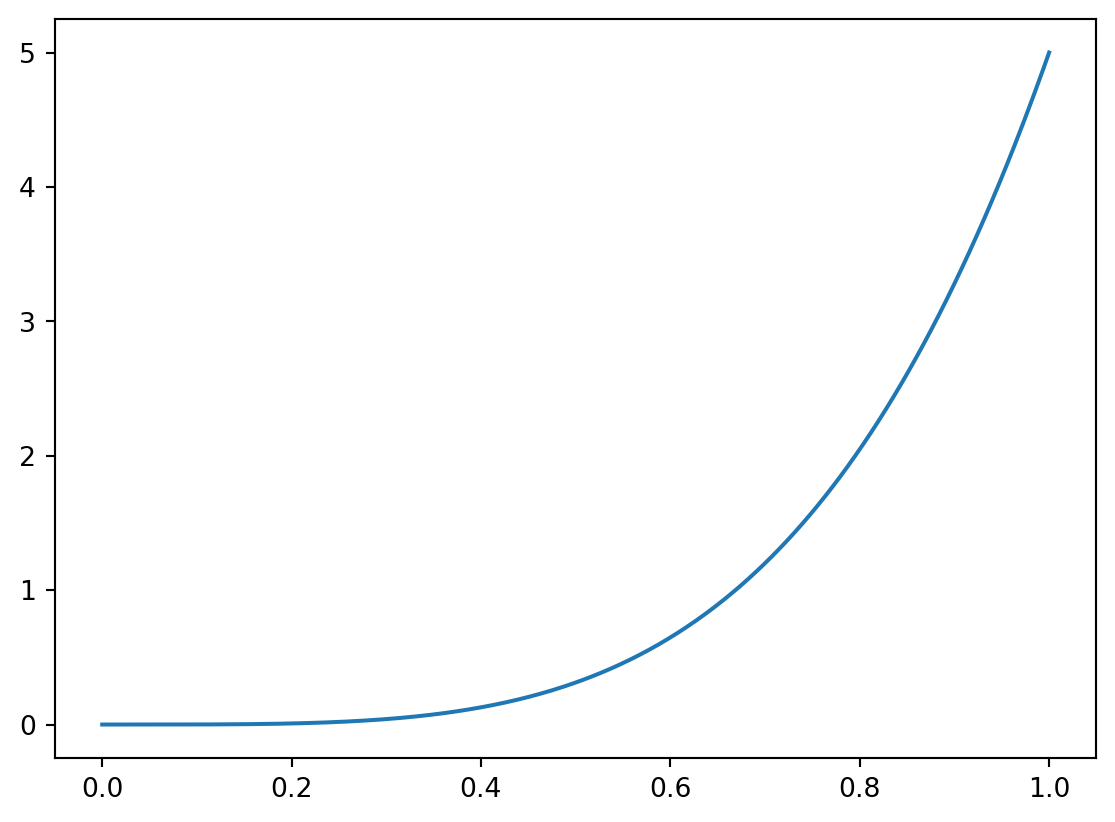
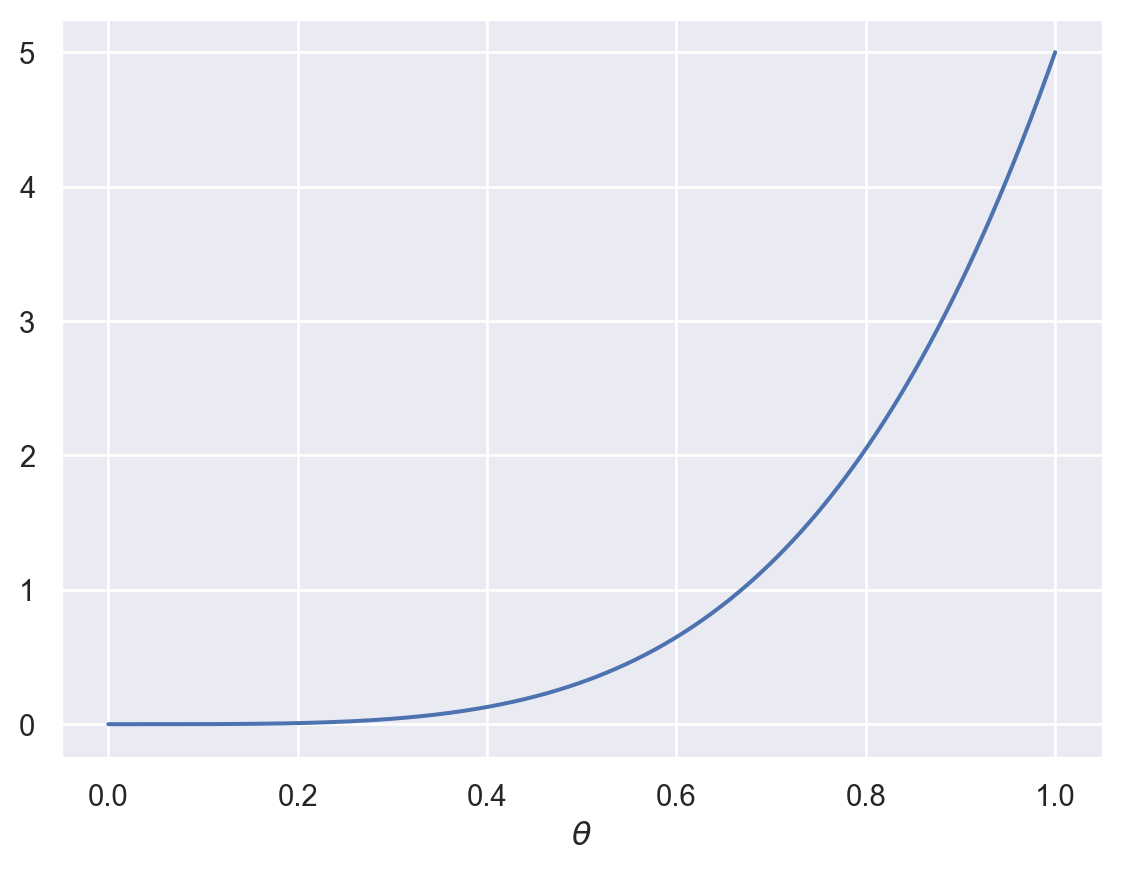
Revisions to Chapter 5

diff --git a/docs/05-hierarchical-bayes.html b/docs/05-hierarchical-bayes.html
@@ -2,7 +2,7 @@
 <html xmlns="http://www.w3.org/1999/xhtml" lang="en" xml:lang="en"><head>
 
 <meta charset="utf-8">
-<meta name="generator" content="quarto-1.3.433">
+<meta name="generator" content="quarto-1.3.450">
 
 <meta name="viewport" content="width=device-width, initial-scale=1.0, user-scalable=yes">
 
@@ -263,7 +263,7 @@ gtag('config', 'G-HG2MG0W08W', { 'anonymize_ip': true});
 
 </header>
 
-<p>In <a href="#bayes">previous examples</a>, there were always a finite number of hypotheses that we were making inferences about (number of black balls, fair or trick coin, yellow or green taxi). Sometimes, we want to consider an infinite set of hypotheses. For example, after flipping a coin, what is the probability of that coin coming up heads? The answer to this question could be any number in the interval [0,1].</p>
+<p>In <a href="./02-bayes.html#bayes">previous examples</a>, there was always a finite number of hypotheses that we were making inferences about (number of black balls, fair or trick coin, yellow or green taxi). Sometimes, we want to consider an infinite set of hypotheses. For example, after flipping a coin, what is the probability of that coin coming up heads? The answer to this question could be any number in the interval [0,1].</p>
 <section id="beta-binomial" class="level2" data-number="5.1">
 <h2 data-number="5.1" class="anchored" data-anchor-id="beta-binomial"><span class="header-section-number">5.1</span> The Beta-Binomial model 🪙</h2>
 <div class="quarto-figure quarto-figure-center">
@@ -295,42 +295,47 @@ P(\theta) = \text{Beta}(\theta;\alpha,\beta)
 <div class="sourceCode cell-code" id="cb1"><pre class="sourceCode python code-with-copy"><code class="sourceCode python"><span id="cb1-1"><a href="#cb1-1" aria-hidden="true" tabindex="-1"></a><span class="im">from</span> scipy <span class="im">import</span> stats</span>
 <span id="cb1-2"><a href="#cb1-2" aria-hidden="true" tabindex="-1"></a><span class="im">import</span> numpy <span class="im">as</span> np</span>
 <span id="cb1-3"><a href="#cb1-3" aria-hidden="true" tabindex="-1"></a><span class="im">import</span> matplotlib.pyplot <span class="im">as</span> plt</span>
-<span id="cb1-4"><a href="#cb1-4" aria-hidden="true" tabindex="-1"></a></span>
-<span id="cb1-5"><a href="#cb1-5" aria-hidden="true" tabindex="-1"></a><span class="kw">def</span> plot_beta(a, b):</span>
-<span id="cb1-6"><a href="#cb1-6" aria-hidden="true" tabindex="-1"></a>  x <span class="op">=</span> np.linspace(<span class="dv">0</span>,<span class="dv">1</span>,num<span class="op">=</span><span class="dv">500</span>)</span>
-<span id="cb1-7"><a href="#cb1-7" aria-hidden="true" tabindex="-1"></a>  px <span class="op">=</span> stats.beta.pdf(x, a, b)</span>
-<span id="cb1-8"><a href="#cb1-8" aria-hidden="true" tabindex="-1"></a>  </span>
-<span id="cb1-9"><a href="#cb1-9" aria-hidden="true" tabindex="-1"></a>  fig, ax <span class="op">=</span> plt.subplots()</span>
-<span id="cb1-10"><a href="#cb1-10" aria-hidden="true" tabindex="-1"></a>  ax.plot(x, px)</span>
-<span id="cb1-11"><a href="#cb1-11" aria-hidden="true" tabindex="-1"></a>  plt.show()</span></code><button title="Copy to Clipboard" class="code-copy-button"><i class="bi"></i></button></pre></div>
+<span id="cb1-4"><a href="#cb1-4" aria-hidden="true" tabindex="-1"></a><span class="im">import</span> seaborn <span class="im">as</span> sns</span>
+<span id="cb1-5"><a href="#cb1-5" aria-hidden="true" tabindex="-1"></a></span>
+<span id="cb1-6"><a href="#cb1-6" aria-hidden="true" tabindex="-1"></a>sns.set_theme()</span>
+<span id="cb1-7"><a href="#cb1-7" aria-hidden="true" tabindex="-1"></a></span>
+<span id="cb1-8"><a href="#cb1-8" aria-hidden="true" tabindex="-1"></a><span class="kw">def</span> plot_beta(a, b):</span>
+<span id="cb1-9"><a href="#cb1-9" aria-hidden="true" tabindex="-1"></a>  x <span class="op">=</span> np.linspace(<span class="dv">0</span>,<span class="dv">1</span>,num<span class="op">=</span><span class="dv">500</span>)</span>
+<span id="cb1-10"><a href="#cb1-10" aria-hidden="true" tabindex="-1"></a>  px <span class="op">=</span> stats.beta.pdf(x, a, b)</span>
+<span id="cb1-11"><a href="#cb1-11" aria-hidden="true" tabindex="-1"></a>  </span>
+<span id="cb1-12"><a href="#cb1-12" aria-hidden="true" tabindex="-1"></a>  fig, ax <span class="op">=</span> plt.subplots()</span>
+<span id="cb1-13"><a href="#cb1-13" aria-hidden="true" tabindex="-1"></a>  <span class="co">#ax.plot(x, px)</span></span>
+<span id="cb1-14"><a href="#cb1-14" aria-hidden="true" tabindex="-1"></a>  sns.lineplot(x <span class="op">=</span> x, y <span class="op">=</span> px)</span>
+<span id="cb1-15"><a href="#cb1-15" aria-hidden="true" tabindex="-1"></a>  ax.set_xlabel(<span class="vs">r'$\theta$'</span>)</span>
+<span id="cb1-16"><a href="#cb1-16" aria-hidden="true" tabindex="-1"></a>  plt.show()</span></code><button title="Copy to Clipboard" class="code-copy-button"><i class="bi"></i></button></pre></div>
 </div>
 <p><code>plot_beta</code> takes two arguments: <code>a</code> (<span class="math inline">\(\alpha\)</span>), and <code>b</code>(<span class="math inline">\(\beta\)</span>) and plots a Beta distribution with those parameter values.</p>
 <p>Let’s see what it looks like with a few different values.</p>
 <div class="cell" data-execution_count="2">
 <div class="sourceCode cell-code" id="cb2"><pre class="sourceCode python code-with-copy"><code class="sourceCode python"><span id="cb2-1"><a href="#cb2-1" aria-hidden="true" tabindex="-1"></a>plot_beta(<span class="dv">1</span>,<span class="dv">1</span>)</span></code><button title="Copy to Clipboard" class="code-copy-button"><i class="bi"></i></button></pre></div>
 <div class="cell-output cell-output-display">
-<p><img src="05-hierarchical-bayes_files/figure-html/cell-3-output-1.png" width="590" height="425"></p>
+<p><img src="05-hierarchical-bayes_files/figure-html/cell-3-output-1.png" width="590" height="450"></p>
 </div>
 </div>
 <p>When <span class="math inline">\(\alpha = \beta = 1\)</span>, the Beta distribution is identical to a Uniform(<span class="math inline">\([0,1]\)</span>) distribution.</p>
 <div class="cell" data-execution_count="3">
 <div class="sourceCode cell-code" id="cb3"><pre class="sourceCode python code-with-copy"><code class="sourceCode python"><span id="cb3-1"><a href="#cb3-1" aria-hidden="true" tabindex="-1"></a>plot_beta(<span class="dv">3</span>,<span class="dv">3</span>)</span></code><button title="Copy to Clipboard" class="code-copy-button"><i class="bi"></i></button></pre></div>
 <div class="cell-output cell-output-display">
-<p><img src="05-hierarchical-bayes_files/figure-html/cell-4-output-1.png" width="579" height="411"></p>
+<p><img src="05-hierarchical-bayes_files/figure-html/cell-4-output-1.png" width="581" height="435"></p>
 </div>
 </div>
 <p>When <span class="math inline">\(\alpha\)</span> and <span class="math inline">\(\beta\)</span> are greater than 1 and equal, we get a distribution with a peak around 0.5. If we had strong prior expectations that the coin was unbiased, we could increase the parameters even more:</p>
 <div class="cell" data-execution_count="4">
 <div class="sourceCode cell-code" id="cb4"><pre class="sourceCode python code-with-copy"><code class="sourceCode python"><span id="cb4-1"><a href="#cb4-1" aria-hidden="true" tabindex="-1"></a>plot_beta(<span class="dv">50</span>,<span class="dv">50</span>)</span></code><button title="Copy to Clipboard" class="code-copy-button"><i class="bi"></i></button></pre></div>
 <div class="cell-output cell-output-display">
-<p><img src="05-hierarchical-bayes_files/figure-html/cell-5-output-1.png" width="558" height="411"></p>
+<p><img src="05-hierarchical-bayes_files/figure-html/cell-5-output-1.png" width="561" height="435"></p>
 </div>
 </div>
 <p>What about when <span class="math inline">\(\alpha\)</span> and <span class="math inline">\(\beta\)</span> are not equal?</p>
 <div class="cell" data-execution_count="5">
 <div class="sourceCode cell-code" id="cb5"><pre class="sourceCode python code-with-copy"><code class="sourceCode python"><span id="cb5-1"><a href="#cb5-1" aria-hidden="true" tabindex="-1"></a>plot_beta(<span class="dv">4</span>,<span class="dv">2</span>)</span></code><button title="Copy to Clipboard" class="code-copy-button"><i class="bi"></i></button></pre></div>
 <div class="cell-output cell-output-display">
-<p><img src="05-hierarchical-bayes_files/figure-html/cell-6-output-1.png" width="571" height="411"></p>
+<p><img src="05-hierarchical-bayes_files/figure-html/cell-6-output-1.png" width="573" height="435"></p>
 </div>
 </div>
 <p>This allows us to capture skewed priors, perhaps capturing a belief that the coin has a specific bias.</p>
@@ -338,7 +343,7 @@ P(\theta) = \text{Beta}(\theta;\alpha,\beta)
 <div class="cell" data-execution_count="6">
 <div class="sourceCode cell-code" id="cb6"><pre class="sourceCode python code-with-copy"><code class="sourceCode python"><span id="cb6-1"><a href="#cb6-1" aria-hidden="true" tabindex="-1"></a>plot_beta(<span class="fl">0.5</span>,<span class="fl">0.5</span>)</span></code><button title="Copy to Clipboard" class="code-copy-button"><i class="bi"></i></button></pre></div>
 <div class="cell-output cell-output-display">
-<p><img src="05-hierarchical-bayes_files/figure-html/cell-7-output-1.png" width="558" height="411"></p>
+<p><img src="05-hierarchical-bayes_files/figure-html/cell-7-output-1.png" width="561" height="435"></p>
 </div>
 </div>
 <p>This might capture the belief that the coin is strongly biased, but we aren’t sure in which direction.</p>
@@ -353,18 +358,18 @@ P(\theta|D) = \text{Beta}(\theta; \alpha + k, \beta + n-k)
 <section id="parameter-estimation" class="level3" data-number="5.1.2">
 <h3 data-number="5.1.2" class="anchored" data-anchor-id="parameter-estimation"><span class="header-section-number">5.1.2</span> Parameter estimation</h3>
 <p>Because we used a conjugate distribution, we can use our same <code>plot_beta</code> function to generate posterior probability distributions after some coin flips.</p>
-<p>Suppose we start with a fairly strong belief that a coin is fair, represented by this distribution:</p>
+<p>Suppose you start with a fairly strong belief that a coin is fair, represented by this distribution:</p>
 <div class="cell" data-execution_count="7">
 <div class="sourceCode cell-code" id="cb7"><pre class="sourceCode python code-with-copy"><code class="sourceCode python"><span id="cb7-1"><a href="#cb7-1" aria-hidden="true" tabindex="-1"></a>plot_beta(<span class="dv">30</span>,<span class="dv">30</span>)</span></code><button title="Copy to Clipboard" class="code-copy-button"><i class="bi"></i></button></pre></div>
 <div class="cell-output cell-output-display">
-<p><img src="05-hierarchical-bayes_files/figure-html/cell-8-output-1.png" width="558" height="411"></p>
+<p><img src="05-hierarchical-bayes_files/figure-html/cell-8-output-1.png" width="561" height="435"></p>
 </div>
 </div>
 <p>Now, suppose you flip a coin 20 times and it comes up heads every time. What should you think about the bias of the coin now? According to our model:</p>
 <div class="cell" data-execution_count="8">
 <div class="sourceCode cell-code" id="cb8"><pre class="sourceCode python code-with-copy"><code class="sourceCode python"><span id="cb8-1"><a href="#cb8-1" aria-hidden="true" tabindex="-1"></a>plot_beta(<span class="dv">30</span><span class="op">+</span><span class="dv">20</span>,<span class="dv">30</span>)</span></code><button title="Copy to Clipboard" class="code-copy-button"><i class="bi"></i></button></pre></div>
 <div class="cell-output cell-output-display">
-<p><img src="05-hierarchical-bayes_files/figure-html/cell-9-output-1.png" width="558" height="411"></p>
+<p><img src="05-hierarchical-bayes_files/figure-html/cell-9-output-1.png" width="561" height="435"></p>
 </div>
 </div>
 <p>As you can see, this should cause you to shift your beliefs somewhat.</p>
@@ -372,14 +377,14 @@ P(\theta|D) = \text{Beta}(\theta; \alpha + k, \beta + n-k)
 <div class="cell" data-execution_count="9">
 <div class="sourceCode cell-code" id="cb9"><pre class="sourceCode python code-with-copy"><code class="sourceCode python"><span id="cb9-1"><a href="#cb9-1" aria-hidden="true" tabindex="-1"></a>plot_beta(<span class="dv">2000</span>,<span class="dv">2000</span>)</span></code><button title="Copy to Clipboard" class="code-copy-button"><i class="bi"></i></button></pre></div>
 <div class="cell-output cell-output-display">
-<p><img src="05-hierarchical-bayes_files/figure-html/cell-10-output-1.png" width="566" height="411"></p>
+<p><img src="05-hierarchical-bayes_files/figure-html/cell-10-output-1.png" width="569" height="435"></p>
 </div>
 </div>
-<p>What happens if we <em>now</em> flipped this coin 20 times and it came up heads every time?</p>
+<p>What happens if you <em>now</em> flipped this coin 20 times and it came up heads every time?</p>
 <div class="cell" data-execution_count="10">
 <div class="sourceCode cell-code" id="cb10"><pre class="sourceCode python code-with-copy"><code class="sourceCode python"><span id="cb10-1"><a href="#cb10-1" aria-hidden="true" tabindex="-1"></a>plot_beta(<span class="dv">2000</span><span class="op">+</span><span class="dv">20</span>,<span class="dv">2000</span>)</span></code><button title="Copy to Clipboard" class="code-copy-button"><i class="bi"></i></button></pre></div>
 <div class="cell-output cell-output-display">
-<p><img src="05-hierarchical-bayes_files/figure-html/cell-11-output-1.png" width="566" height="411"></p>
+<p><img src="05-hierarchical-bayes_files/figure-html/cell-11-output-1.png" width="569" height="435"></p>
 </div>
 </div>
 <p>You might be mildly surprised, but those 20 flips wouldn’t be enough to budge your estimate about the bias of the coin by much.</p>
@@ -387,21 +392,21 @@ P(\theta|D) = \text{Beta}(\theta; \alpha + k, \beta + n-k)
 <div class="cell" data-execution_count="11">
 <div class="sourceCode cell-code" id="cb11"><pre class="sourceCode python code-with-copy"><code class="sourceCode python"><span id="cb11-1"><a href="#cb11-1" aria-hidden="true" tabindex="-1"></a>plot_beta(<span class="dv">5</span>,<span class="dv">1</span>)</span></code><button title="Copy to Clipboard" class="code-copy-button"><i class="bi"></i></button></pre></div>
 <div class="cell-output cell-output-display">
-<p><img src="05-hierarchical-bayes_files/figure-html/cell-12-output-1.png" width="558" height="411"></p>
+<p><img src="05-hierarchical-bayes_files/figure-html/cell-12-output-1.png" width="561" height="435"></p>
 </div>
 </div>
 <p>Now you flip the coin 100 times and it comes up heads 48 times. What should your updated beliefs be?</p>
 <div class="cell" data-execution_count="12">
 <div class="sourceCode cell-code" id="cb12"><pre class="sourceCode python code-with-copy"><code class="sourceCode python"><span id="cb12-1"><a href="#cb12-1" aria-hidden="true" tabindex="-1"></a>plot_beta(<span class="dv">5</span><span class="op">+</span><span class="dv">48</span>,<span class="dv">1</span><span class="op">+</span><span class="dv">52</span>)</span></code><button title="Copy to Clipboard" class="code-copy-button"><i class="bi"></i></button></pre></div>
 <div class="cell-output cell-output-display">
-<p><img src="05-hierarchical-bayes_files/figure-html/cell-13-output-1.png" width="558" height="411"></p>
+<p><img src="05-hierarchical-bayes_files/figure-html/cell-13-output-1.png" width="561" height="435"></p>
 </div>
 </div>
 <p>As you can see, the posterior distribution shows that you should think this coin is probably fair now. This illustrates how sufficient evidence can override prior beliefs.</p>
 </section>
 <section id="hypothesis-averaging" class="level3" data-number="5.1.3">
 <h3 data-number="5.1.3" class="anchored" data-anchor-id="hypothesis-averaging"><span class="header-section-number">5.1.3</span> Hypothesis averaging</h3>
-<p><a href="#generalizing">In Chapter 3</a>, we solved the generalization problem by summing over all hypotheses, weighted by their posterior probabilities. Here, we can do something similar.</p>
+<p><a href="./03-generalization.html#generalizing">In Chapter 3</a>, we solved the generalization problem by summing over all hypotheses, weighted by their posterior probabilities. Here, we can do something similar.</p>
 <p>Suppose we want to know the probability of the next flip coming up heads. In other words, we want to know <span class="math inline">\(P(\text{heads}|D)\)</span>. We can do that by averaging over all possible values of <span class="math inline">\(\theta\)</span>:</p>
 <p><span class="math display">\[
 P(\text{heads}|D) = \int_\theta P(\text{heads}|\theta) \cdot P(\theta|D) d\theta = \int_\theta \theta \cdot P(\theta|D) d\theta
@@ -414,7 +419,7 @@ P(\text{heads}|D) = \int_\theta P(\text{heads}|\theta) \cdot P(\theta|D) d\theta
 <p>If you answered yes, it’s probably because you formed an <em>overhypothesis</em> about the bias of the coins. After flipping all those coins, you may have concluded that this particular set of coins is more likely than usual to be biased. As a result, your estimate about the probability of the 20th coin coming up heads was higher than it otherwise would be.</p>
 <section id="the-shape-bias" class="level3" data-number="5.2.1">
 <h3 data-number="5.2.1" class="anchored" data-anchor-id="the-shape-bias"><span class="header-section-number">5.2.1</span> The shape bias</h3>
-<p>This coins example is pretty artificial, but the notion of overhypotheses is one that you find in language learning. A phenomenon known as <a href="https://doi.org/10.1016/0885-2014(88)90014-7">the shape bias</a> refers to the fact that even young children are more likely to generalize a new word based on its shape rather than other properties like color or texture.</p>
+<p>This coins example is pretty artificial, but the concept of overhypotheses is one that you find in language learning. A phenomenon known as <a href="https://doi.org/10.1016/0885-2014(88)90014-7">the shape bias</a> refers to the fact that even young children are more likely to generalize a new word based on its shape rather than other properties like color or texture.</p>
 <div class="quarto-figure quarto-figure-center">
 <figure class="figure">
 <p><img src="images/05/shape_bias.gif" class="img-fluid figure-img"></p>
@@ -427,7 +432,7 @@ P(\text{heads}|D) = \int_\theta P(\text{heads}|\theta) \cdot P(\theta|D) d\theta
 <h3 data-number="5.2.2" class="anchored" data-anchor-id="modeling-the-learning-of-overhypotheses-through-hierarchical-bayesian-learning"><span class="header-section-number">5.2.2</span> Modeling the learning of overhypotheses through hierarchical Bayesian learning</h3>
 <p>Charles Kemp, Andy Perfors, and Josh Tenenbaum developed <a href="http://www.charleskemp.com/papers/KempPTDevSci.pdf">a model</a> of this kind of learning. They focused on bags of black and white marbles rather than flipping coins. They imagine a problem in which you have many bags of marbles that you draw from. After drawing from many bags, you draw a single marble from a new bag and make a prediction about the proportion of black and white marbles in that bag.</p>
 <p>The details of the model are outside the scope of this book. But the basic idea is that the model learns at two levels simultaneously. At the higher level, the model learns the parameters <span class="math inline">\(\alpha\)</span> and <span class="math inline">\(\beta\)</span> of a Beta distribution that characterizes the proportion of black and white marbles in each bag. As we saw above, a Beta distribution can have a peak around a particular proportion, or it can be peaked around both 0 and 1, meaning that each bag is likely to be nearly all black or all white.</p>
-<p>At the lower level, the model learns the specific distribution of marbles within a bag. If you draw 20 marbles and 5 of them are black, you may have some uncertainty about the overall proportion in the bag, but your best estimate will be around 5/20 or 1/4.</p>
+<p>At the lower level, the model learns the specific distribution of marbles within a bag. If you draw 20 marbles and 5 of them are black, you may have some uncertainty about the overall proportion in the bag, but your best estimate will be around 5/20 (or 1/4).</p>
 <p>Where the model excels is being able to draw inferences <em>across</em> bags. If you see many bags that are full of <em>only</em> black or <em>only</em> white marbles, and then you draw a single black marble out of a new bag, you are likely to be very confident that the rest of the marbles in that bag are black.</p>
 <p>But if you see many bags that have mixed proportions of black and white marbles, and then you draw a single black marble out of a new bag, you will be far less confident about the proportion of black marbles in that bag. A model that doesn’t make inferences at multiple levels would struggle to draw this distinction.</p>
 
